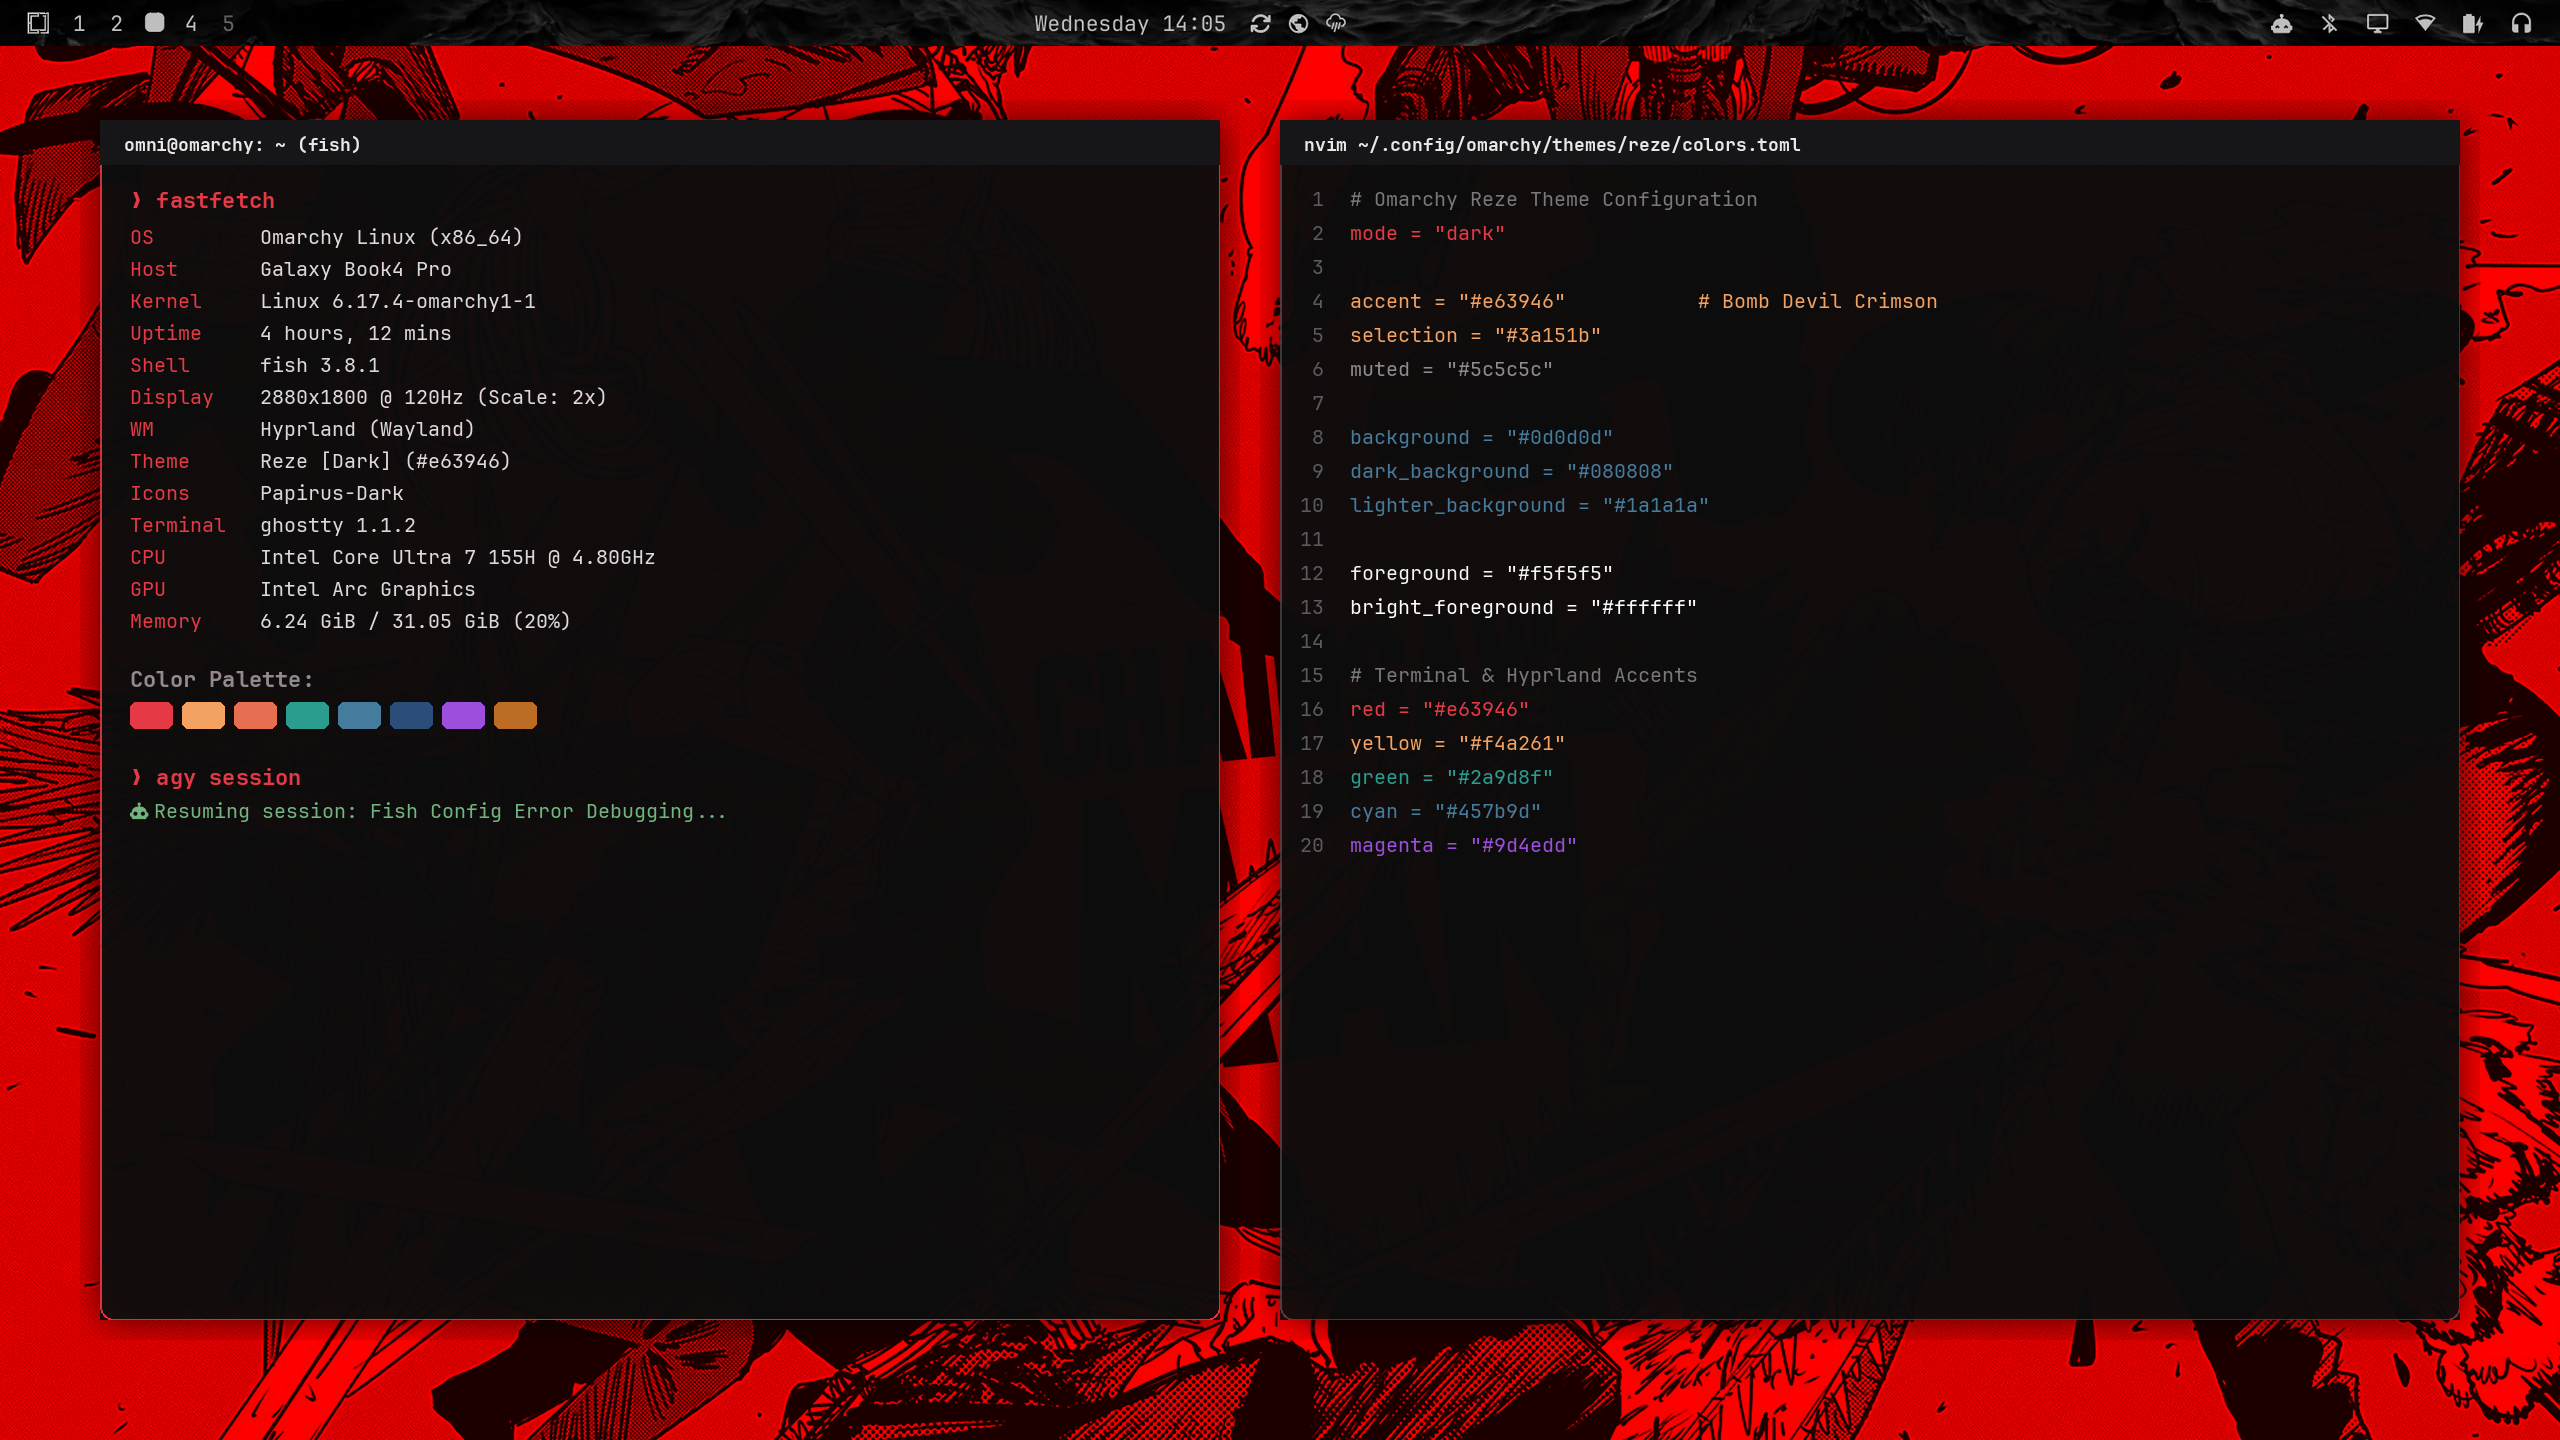
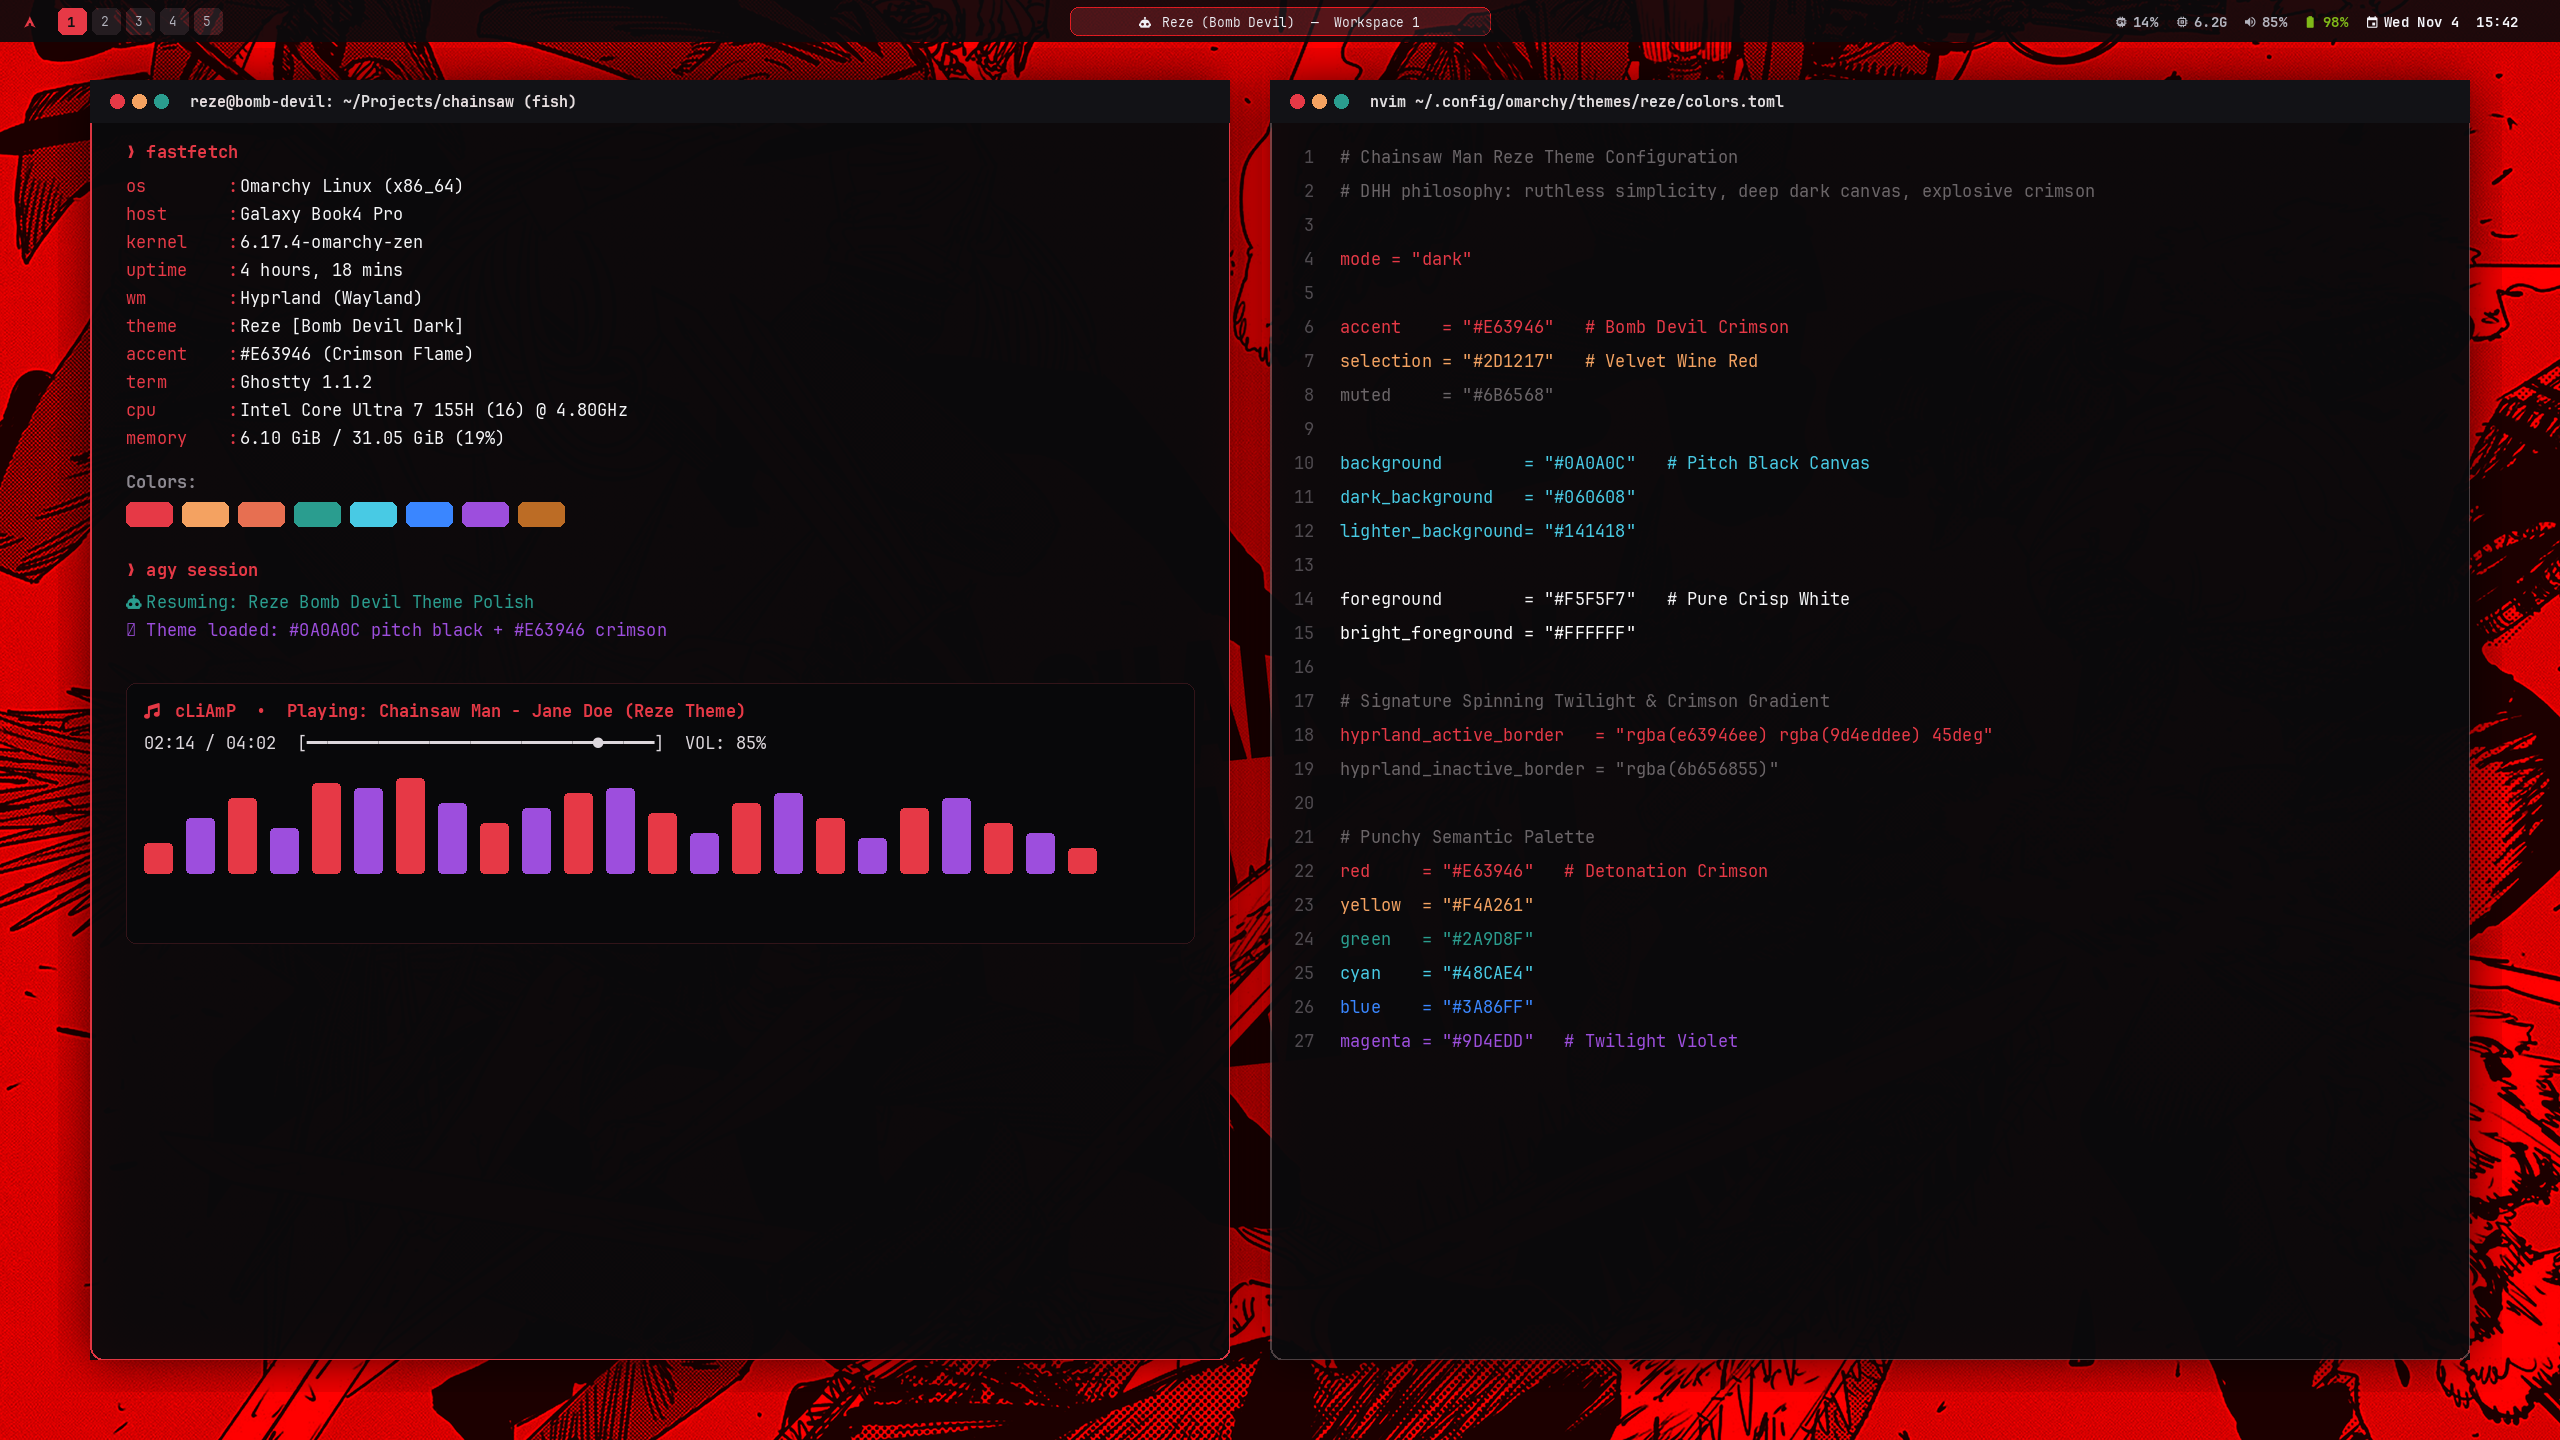
Refactor theme: prune wallpapers, enhance palette, drop custom lockscreen, DHH polish

diff --git a/README.md b/README.md
@@ -1,16 +1,54 @@
-# Omarchy Reze Theme
+# 💣 Omarchy Reze Theme
 
-A custom Reze (Chainsaw Man) inspired theme for [Omarchy Linux](https://omarchy.org/).
+> *"Are you sure you want to pull the pin?"*
 
-## Previews
+A deadly, refined dark theme for [Omarchy Linux](https://omarchy.org/) inspired by Reze (The Bomb Devil) from *Chainsaw Man*. Built with **DHH-style conviction**: uncompromising pitch-black OLED depth (`#0A0A0C`), explosive crimson highlights (`#E63946`), and vivid twilight hues designed to make your setup look breathtaking.
+
 ![Preview](preview.png)
-![Lock Screen](preview-unlock.png)
 
-## Installation
+---
 
-You can install this theme directly using the Omarchy CLI:
+## 🎨 The Aesthetic
+
+- **Pitch-Black Canvas (`#0A0A0C`)**: Pure OLED darkness that lets windows and text stand out with razor-sharp contrast.
+- **Detonation Crimson (`#E63946`)**: The primary accent — vibrant, commanding, and focused.
+- **Twilight Violet (`#9D4EDD`)**: Paired with crimson in a dynamic 45° spinning Hyprland border gradient.
+- **Pure White Clarity (`#F5F5F7`)**: Pristine foreground typography tuned for extended code reading.
+
+---
+
+## 📦 What's Included
+
+```text
+reze/
+├── backgrounds/         # Curated Ultra-HD wallpapers
+│   ├── reze_wallhaven_6.png (Main 4K artwork)
+│   ├── reze_wallhaven_7.png
+│   ├── reze_wallhaven_8.png
+│   ├── reze_wallhaven_9.png
+│   ├── reze_wallhaven_10.png
+│   ├── reze_wallhaven_3.png
+│   ├── reze_wallhaven_4.png
+│   ├── reze_wallhaven_5.png
+│   └── reze_wallhaven_1.jpg
+├── colors.toml          # Master color configuration
+├── hyprland.lua         # Hyprland active border & decoration rules
+└── preview.png          # 2560x1440 HiDPI desktop showcase
+```
+
+---
+
+## 🚀 Installation
+
+Install directly with the Omarchy CLI:
 
 ```bash
 omarchy theme install https://github.com/oz456/omarchy-reze-theme
 omarchy theme set reze
 ```
+
+---
+
+## 📜 License
+
+MIT © [oz456](https://github.com/oz456)
